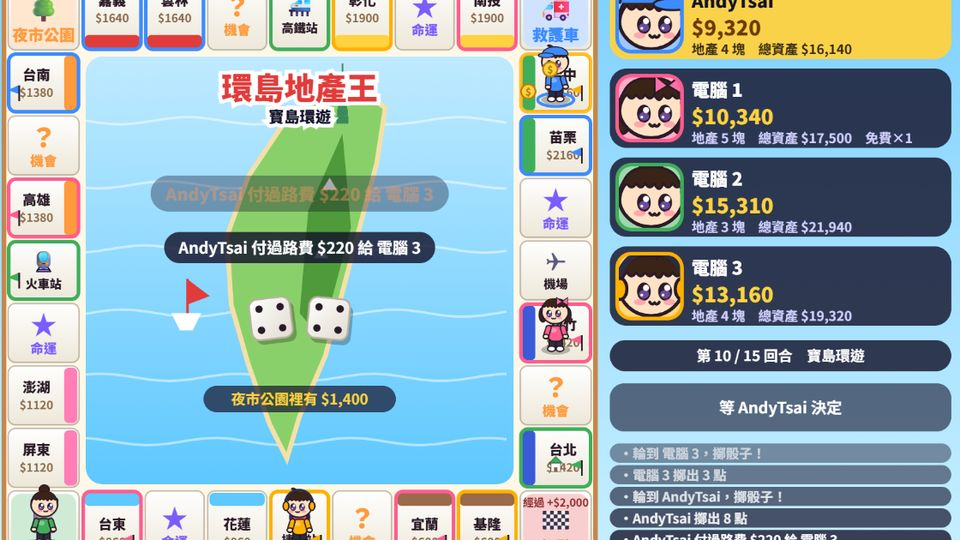
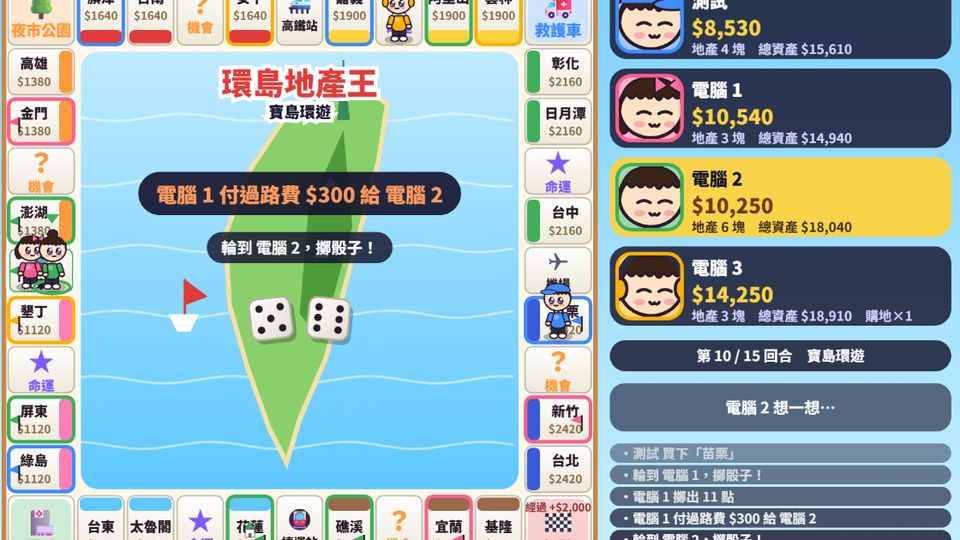
太空艦隊改單人闖關鎖關；環島地產王十張地圖、棋盤 40 格（v205）

diff --git a/rich.js b/rich.js
@@ -1,4 +1,4 @@
-// 環島地產王：擲骰子繞棋盤，買地、蓋房子、收過路費。三張地圖（寶島環遊、環遊世界、甜點樂園），
+// 環島地產王：擲骰子繞棋盤，買地、蓋房子、收過路費。十張地圖、棋盤 40 格，
 // 和電腦玩、同一台輪流玩，或開房間 2～4 人連線（房主負責運算、其他人送動作，人不夠電腦補）。
 (function(){
 'use strict';
@@ -12,27 +12,49 @@ const money=n=>(n<0?'-':'')+'$'+Math.abs(Math.round(n)).toString().replace(/\B(?
 const GCOL=['#9a6a4a','#5ec8ff','#ff7eb6','#ff9a3d','#e23b3b','#ffd23f','#3fae5a','#3a5ad8'];
 const MAPS=[
   {name:'寶島環遊',corner:['起點','醫院','夜市公園','救護車'],st:['捷運站','火車站','高鐵站','機場'],
-   props:['基隆','宜蘭','花蓮','台東','屏東','澎湖','高雄','台南','嘉義','雲林','彰化','南投','台中','苗栗','新竹','台北'],
+   props:['基隆','宜蘭','礁溪','花蓮','太魯閣','台東','綠島','屏東','墾丁','澎湖','金門','高雄','旗津','台南','安平','嘉義','阿里山','雲林','彰化','日月潭','台中','苗栗','新竹','台北'],
    bg:['#7ed0ff','#c8f0ff'],board:'#fff8e8',frame:'#c8864a',center:'taiwan'},
   {name:'環遊世界',corner:['起點','醫院','中央公園','救護車'],st:['港口','火車','郵輪','機場'],
-   props:['曼谷','河內','首爾','釜山','開羅','杜拜','雪梨','奧克蘭','羅馬','巴塞隆納','巴黎','倫敦','舊金山','紐約','新加坡','東京'],
+   props:['曼谷','河內','馬尼拉','首爾','釜山','開羅','杜拜','孟買','雪梨','奧克蘭','里約','羅馬','巴塞隆納','柏林','巴黎','倫敦','莫斯科','舊金山','紐約','多倫多','香港','新加坡','上海','東京'],
    bg:['#3a6ad8','#8ac8ff'],board:'#f4f8ff',frame:'#3a4a8a',center:'world'},
-  {name:'甜點樂園',corner:['起點','保健室','彩虹公園','救護車'],st:['小火車','熱氣球','旋轉木馬','雲霄飛車'],
-   props:['糖果屋','棉花糖','布丁','果凍','餅乾','馬卡龍','冰淇淋','聖代','甜甜圈','泡芙','巧克力','可可','蛋糕','千層','水晶糖宮','彩虹城'],
-   bg:['#ffb3d9','#fff0f8'],board:'#fffaf2',frame:'#e87aa8',center:'candy'}];
-const PAT=['p','p','x','s','p','y','p']; // 每邊 7 格：地、地、機會／命運、車站、地、命運／機會、地
+  {name:'甜點樂園',corner:['起點','保健室','彩虹公園','救護車'],st:['小火車','熱氣球','旋轉木馬','雲霄飛車'],em:['🚂','🎈','🎠','🎢'],
+   props:['糖果屋','棉花糖','軟糖','布丁','果凍','奶酪','餅乾','馬卡龍','蛋塔','冰淇淋','聖代','雪花冰','甜甜圈','泡芙','可麗餅','巧克力','可可','鬆餅','蛋糕','千層','提拉米蘇','水晶糖宮','彩虹城','蜜糖堡'],
+   bg:['#ffb3d9','#fff0f8'],board:'#fffaf2',frame:'#e87aa8',center:'candy'},
+  {name:'日本之旅',corner:['起點','診所','櫻花公園','救護車'],st:['電車','新幹線','渡輪','機場'],em:['🚃','🚄','⛴','✈'],
+   props:['那霸','石垣','鹿兒島','熊本','福岡','長崎','廣島','松山','高松','神戶','奈良','大阪','京都','名古屋','金澤','富士','鎌倉','橫濱','輕井澤','日光','東京','仙台','函館','札幌'],
+   bg:['#ffc4d6','#fff0e8'],board:'#fffaf4',frame:'#c8485a',center:'japan'},
+  {name:'歐洲古堡',corner:['起點','修道院','皇家花園','馬車'],st:['驛站','港口','運河','鐵路'],em:['🐎','⚓','🛶','🚂'],
+   props:['石橋村','磨坊鎮','葡萄園','牧羊谷','鐘樓城','市集廣場','鐵匠街','酒窖','騎士團','圖書塔','教堂','大學城','銀行街','歌劇院','美術館','北方要塞','湖畔堡','獵宮','夏宮','冬宮','公爵府','王后塔','國王廳','黃金城'],
+   bg:['#6a7ea8','#d8d8e8'],board:'#f8f4e8',frame:'#5a4a6a',center:'castle'},
+  {name:'海底世界',corner:['起點','珊瑚診所','珍珠花園','大白鯊'],st:['潛水艇','海龜','鯨魚','洋流'],em:['🚢','🐢','🐳','🌊'],
+   props:['海草坡','小丑魚礁','海星灘','寄居蟹','海馬林','水母灣','章魚洞','沉船','古董箱','魔鬼魚','藍洞','火山口','珊瑚城','貝殼街','珍珠坊','海豚灣','燈籠魚','深海溝','鯨歌谷','海神殿','美人魚宮','黃金艦','水晶城','龍宮'],
+   bg:['#0a4a8a','#3ac0d8'],board:'#eefafc',frame:'#0a5a7a',center:'sea'},
+  {name:'星際殖民',corner:['起點','醫療艙','星雲公園','救援艇'],st:['太空站','蟲洞','星際列車','火箭港'],em:['🛰','🌀','🚄','🚀'],
+   props:['月球站','月海','火衛基地','火星谷','奧林帕斯','礦業帶','穀神星','木衛城','大紅斑','木星環','冰衛星','土星環','泰坦','天王站','海王港','冥王哨','彗星','流星街','脈衝星','半人馬','獵戶座','天狼城','織女星','銀河中心'],
+   bg:['#0a0a2a','#3a2a6a'],board:'#f0f0fc',frame:'#3a3a7a',center:'space'},
+  {name:'恐龍時代',corner:['起點','草藥洞','蕨類花園','暴龍'],st:['翼龍','獨木舟','猛瑪象','火山道'],em:['🦅','🛶','🐘','🌋'],
+   props:['蕨類林','泥沼','化石坡','蛋窩','小盜龍','腕龍谷','長頸灘','三角龍','劍龍原','甲龍丘','迅猛崖','棘龍河','蛇頸湖','滄龍灣','翼手峰','蘇鐵林','琥珀坑','巨木森','恐龍骨','火山灰','熔岩池','雷龍城','暴龍王','遠古祭壇'],
+   bg:['#7a9a4a','#e8d890'],board:'#fbf6e0',frame:'#6a5a2a',center:'dino'},
+  {name:'冰雪王國',corner:['起點','暖爐屋','極光公園','雪怪'],st:['雪橇','破冰船','纜車','馴鹿'],em:['🛷','🚢','🚡','🦌'],
+   props:['雪屋村','企鵝灘','海豹岩','冰釣湖','北極狐','雪兔林','冰柱洞','松樹坡','滑雪場','雪人鎮','冰壺館','極光谷','馴鹿原','冰川','藍冰洞','白熊港','雪花街','聖誕村','冰晶塔','雪山峰','暴風嶺','冰之湖','水晶宮','冰雪王座'],
+   bg:['#8ac0e8','#f0f8ff'],board:'#f6fbff',frame:'#4a7aa8',center:'snow'},
+  {name:'法老沙漠',corner:['起點','神廟醫館','綠洲花園','沙暴'],st:['駱駝','尼羅船','商隊','飛毯'],em:['🐫','⛵','🧳','🪄'],
+   props:['沙丘村','椰棗林','水井','香料攤','陶器街','駱駝市','蘆葦河','莎草紙','石匠區','黃金礦','聖甲蟲','貓神廟','月神廟','獅身像','方尖碑','帝王谷','小金字塔','綠洲城','孟菲斯','尼羅河','太陽神殿','大金字塔','法老宮','黃金王座'],
+   bg:['#e8a84a','#fbe6b0'],board:'#fdf6e0',frame:'#a8742a',center:'desert'}];
+const PAT=['p','p','x','p','s','p','y','p','p']; // 每邊 9 格：地、地、機會／命運、地、車站、地、命運／機會、地、地
+const NT=40,SD=10; // 一圈 40 格，每邊 10 格（含轉角）
 function makeTiles(mi){ const M=MAPS[mi],T=[]; let pi=0,si=0;
-  for(let i=0;i<32;i++){ const side=Math.floor(i/8),k=i%8;
+  for(let i=0;i<NT;i++){ const side=Math.floor(i/SD),k=i%SD;
     if(k===0){ T.push({i,type:['start','hosp','park','amb'][side],name:M.corner[side]}); continue; }
     const p=PAT[k-1];
-    if(p==='p'){ const g=Math.floor(pi/2),price=600+g*260; T.push({i,type:'prop',name:M.props[pi],g,price,base:Math.round(price*.1/10)*10,cost:Math.round(price*.5/10)*10}); pi++; }
+    if(p==='p'){ const g=Math.floor(pi/3),price=600+g*260; T.push({i,type:'prop',name:M.props[pi],g,price,base:Math.round(price*.1/10)*10,cost:Math.round(price*.5/10)*10}); pi++; }
     else if(p==='s'){ T.push({i,type:'st',name:M.st[si++],price:1500}); }
     else T.push({i,type:(p==='x')===(side%2===0)?'chance':'fate',name:(p==='x')===(side%2===0)?'機會':'命運'}); }
   return T; }
 // 格子在棋盤上的位置：0 在右下角，往左、往上、往右、往下繞一圈
 const STEPT=.28; // 棋子走一格的時間
-const BS=488,BX=6,BY=6,CN=62,EG=(BS-CN*2)/7;
-function rect(i){ const side=Math.floor(i/8),k=i%8;
+const BS=488,BX=6,BY=6,CN=58,EG=(BS-CN*2)/(SD-1);
+function rect(i){ const side=Math.floor(i/SD),k=i%SD;
   if(k===0) return [[BS-CN,BS-CN],[0,BS-CN],[0,0],[BS-CN,0]][side].concat([CN,CN,side]);
   if(side===0) return [BS-CN-k*EG,BS-CN,EG,CN,0]; if(side===1) return [0,BS-CN-k*EG,CN,EG,1]; if(side===2) return [CN+(k-1)*EG,0,EG,CN,2]; return [BS-CN,CN+(k-1)*EG,CN,EG,3]; }
 const center=i=>{ const [x,y,w,h]=rect(i); return [BX+x+w/2,BY+y+h/2]; };
@@ -50,7 +72,7 @@ function chibi(c,x,y,s,p,o){ const RH=window.__RHY; if(!RH){ c.fillStyle=p.col; 
 
 /* ---------- 遊戲 ---------- */
 function create(env,opts){
-  const net=opts.net,client=!!net&&!net.host,OP=opts.options||{},mi=clamp(opts.stage|0,0,2),M=MAPS[mi],TI=makeTiles(mi);
+  const net=opts.net,client=!!net&&!net.host,OP=opts.options||{},mi=clamp(opts.stage|0,0,MAPS.length-1),M=MAPS[mi],TI=makeTiles(mi);
   const hot=!net&&opts.mode==='local',seats=net?clamp(net.count+(net.bots||0),2,4):clamp(+OP.seats||4,2,4);
   const humans=net?net.count:hot?seats:1,me=net?net.me:0,ROUNDS=+OP.rounds||15,START=+OP.cash||15000,PACE=({slow:2,normal:1.5,fast:1})[OP.pace||'normal']||1.5; // 動作之間停多久
   const isAI=p=>p>=humans||left.has(p),left=new Set(),sfx=n=>env.sfx(n);
@@ -84,7 +106,7 @@ function create(env,opts){
     G.phase='roll'; log('輪到 '+names[G.turn]+'，擲骰子！'); }
   function roll(p){ if(G.phase!=='roll'||G.turn!==p) return '還沒輪到你'; const a=1+Math.floor(Math.random()*6),b=1+Math.floor(Math.random()*6); G.dice=[a,b]; G.ds++; sfx('rattle'); move(p,a+b,.9); log(names[p]+' 擲出 '+(a+b)+' 點'); return null; }
   function move(p,steps,delay){ const pl=G.pl[p],path=[]; let pos=pl.pos,passed=false;
-    for(let k=0;k<Math.abs(steps);k++){ pos=(pos+(steps>0?1:31))%32; path.push(pos); if(pos===0&&steps>0) passed=true; }
+    for(let k=0;k<Math.abs(steps);k++){ pos=(pos+(steps>0?1:NT-1))%NT; path.push(pos); if(pos===0&&steps>0) passed=true; }
     G.ms++; G.mv={p,from:pl.pos,path,s:G.ms,delay}; pl.pos=pos; if(passed){ G.pl[p].cash+=2000; G.passBonus=p; }
     G.phase='wait'; G.wait=delay+path.length*STEPT+.3*PACE; G.after='land'; }
   function warp(p,to){ G.ms++; G.mv={p,from:G.pl[p].pos,path:[to],s:G.ms,delay:0,warp:1}; G.pl[p].pos=to; G.phase='wait'; G.wait=1.1; G.after='land'; }
@@ -107,11 +129,11 @@ function create(env,opts){
   function applyCard(){ const p=G.turn,pl=G.pl[p],e=G.cardFx||{}; G.card=null;
     if(e.card){ pl.cards[e.card]++; toast(names[p]+' 拿到'+(e.card==='buy'?'購地卡':'換地卡')+'！','#ffd23f'); sfx('item'); return endSoon(1); }
     if(e.gain){ gain(p,e.gain); return endSoon(1); }
-    if(e.goto!=null){ return move(p,(32-pl.pos)%32||32,0); }
+    if(e.goto!=null){ return move(p,(NT-pl.pos)%NT||NT,0); }
     if(e.fwd){ return move(p,e.fwd,0); }
     if(e.up){ const mine=owned(p).filter(i=>TI[i].type==='prop'&&G.tiles[i].lv<3); if(mine.length){ const i=mine[0]; G.tiles[i].lv++; toast('「'+TI[i].name+'」免費加蓋！'); sfx('item'); } else toast('沒有可以加蓋的地'); return endSoon(1); }
     if(e.each){ for(const q of alive()) if(q!==p) pay(q,p,Math.min(e.each,Math.max(0,G.pl[q].cash))); return endSoon(1.2); }
-    if(e.station){ let k=1; while(TI[(pl.pos+k)%32].type!=='st') k++; return move(p,k,0); }
+    if(e.station){ let k=1; while(TI[(pl.pos+k)%NT].type!=='st') k++; return move(p,k,0); }
     if(e.free){ pl.free++; return endSoon(1); }
     if(e.tax){ pay(p,-2,e.tax*owned(p).length); return endSoon(1); }
     if(e.fine){ pay(p,-2,e.fine); return endSoon(1); }
@@ -283,12 +305,22 @@ function drawBoard(c,mi,t){ const M=MAPS[mi],TI=makeTiles(mi);
     c.textAlign='center'; c.textBaseline='middle';
     if(T.type==='prop'){ const col=GCOL[T.g]; c.fillStyle=col; // 內側的顏色帶
       if(side===0) rr(c,X+3,Y+3,w-6,11,4); else if(side===2) rr(c,X+3,Y+h-14,w-6,11,4); else if(side===1) rr(c,X+w-14,Y+3,11,h-6,4); else rr(c,X+3,Y+3,11,h-6,4); c.fill();
-      const tx=X+w/2+(side===1?-6:side===3?6:0),ty=Y+h/2+(side===0?5:side===2?-5:0); c.fillStyle='#2a1a26'; c.font='900 '+(T.name.length>3?9.5:11.5)+'px '+TC; c.fillText(T.name,tx,ty-7,w-16); c.fillStyle='#8a6a4a'; c.font='700 9.5px '+TC; c.fillText('$'+T.price,tx,ty+8); }
-    else if(T.type==='st'){ c.fillStyle='#5a5a7a'; c.font='18px '+TC; c.fillText(['🚇','🚆','🚄','✈'][Math.floor(T.i/8)],X+w/2,Y+h/2-8); c.fillStyle='#2a1a26'; c.font='900 10px '+TC; c.fillText(T.name,X+w/2,Y+h/2+11,w-6); }
+      const tx=X+w/2+(side===1?-6:side===3?6:0),ty=Y+h/2+(side===0?5:side===2?-5:0); c.fillStyle='#2a1a26'; c.font='900 '+(T.name.length>3?9.5:11.5)+'px '+TC; c.fillText(T.name,tx,ty-7,side%2?w-16:w-5); c.fillStyle='#8a6a4a'; c.font='700 9.5px '+TC; c.fillText('$'+T.price,tx,ty+8); }
+    else if(T.type==='st'){ c.fillStyle='#5a5a7a'; c.font='18px '+TC; c.fillText((M.em||['🚇','🚆','🚄','✈'])[Math.floor(T.i/SD)],X+w/2,Y+h/2-8); c.fillStyle='#2a1a26'; c.font='900 10px '+TC; c.fillText(T.name,X+w/2,Y+h/2+11,w-4); }
     else if(T.type==='chance'||T.type==='fate'){ const k=T.type==='chance'; c.fillStyle=k?'#ff9a3d':'#7a5cff'; c.font='900 22px '+TC; c.fillText(k?'？':'★',X+w/2,Y+h/2-7); c.font='900 11px '+TC; c.fillText(T.name,X+w/2,Y+h/2+13); }
     else { const col={start:'#e23b3b',hosp:'#3fae5a',park:'#ff9a3d',amb:'#3d8bff'}[T.type]; c.fillStyle=shade(col,1.75); rr(c,X+4,Y+4,w-8,h-8,8); c.fill();
       c.fillStyle=col; c.font='900 13px '+TC; c.fillText(T.name,X+w/2,Y+h-14,w-8); c.font='22px '+TC; c.fillText({start:'🏁',hosp:'🏥',park:'🌳',amb:'🚑'}[T.type],X+w/2,Y+h/2-6);
       if(T.type==='start'){ c.font='700 9px '+TC; c.fillStyle='#8a2a2a'; c.fillText('經過 +$2,000',X+w/2,Y+11); } } } }
+const tri=(c,a,b,d,e,f,g)=>{ c.beginPath(); c.moveTo(a,b); c.lineTo(d,e); c.lineTo(f,g); c.fill(); },circ=(c,a,b,r)=>{ c.beginPath(); c.arc(a,b,r,0,7); c.fill(); };
+const ARTS={
+  japan:{sky:['#ffd9e4','#fff4e0'],f(c,x,y,s,cx,cy,t){ c.fillStyle='#e8344a'; circ(c,cx+s*.22,y+s*.34,s*.1); c.fillStyle='#5a7aa8'; tri(c,x-s*.05,y+s*.82,cx,y+s*.3,x+s*1.05,y+s*.82); c.fillStyle='#fff'; c.beginPath(); c.moveTo(cx-s*.13,y+s*.46); c.lineTo(cx,y+s*.3); c.lineTo(cx+s*.13,y+s*.46); c.lineTo(cx+s*.06,y+s*.43); c.lineTo(cx,y+s*.48); c.lineTo(cx-s*.06,y+s*.43); c.fill(); c.fillStyle='#8ac86a'; c.fillRect(x,y+s*.8,s,s*.2);
+    c.fillStyle='#d8343a'; c.fillRect(x+s*.14,y+s*.62,6,s*.24); c.fillRect(x+s*.3,y+s*.62,6,s*.24); c.fillRect(x+s*.1,y+s*.6,s*.26,6); c.fillRect(x+s*.13,y+s*.67,s*.2,4); c.fillStyle='#ffb0c8'; for(let k=0;k<26;k++){ const q=(k*37)%100/100; circ(c,x+q*s+Math.sin(t+k)*5,y+((k*53+t*16)%100)/100*s,2.6); } }},
+  castle:{sky:['#7a8ec0','#e8e0e8'],f(c,x,y,s,cx,cy,t){ c.fillStyle='#fff'; for(const [a,b] of [[.2,.34],[.78,.4]]){ circ(c,x+a*s,y+b*s,12); circ(c,x+a*s+14,y+b*s+2,10); circ(c,x+a*s-14,y+b*s+3,9); } c.fillStyle='#6a9a5a'; c.beginPath(); c.ellipse(cx,y+s*1.02,s*.75,s*.3,0,0,7); c.fill(); c.fillStyle='#b8b4c0'; c.fillRect(cx-s*.26,cy,s*.52,s*.32); for(let k=0;k<7;k++) c.fillRect(cx-s*.26+k*s*.08,cy-8,s*.04,8); for(const k of [-1,1]){ c.fillStyle='#a4a0ae'; c.fillRect(cx+k*s*.28-s*.07,cy-s*.12,s*.14,s*.44); c.fillStyle='#4a5a98'; tri(c,cx+k*s*.28-s*.09,cy-s*.12,cx+k*s*.28,cy-s*.3,cx+k*s*.28+s*.09,cy-s*.12); } c.fillStyle='#5a4a3a'; rr(c,cx-s*.06,cy+s*.14,s*.12,s*.18,s*.05); c.fill(); c.fillStyle='#e23b3b'; c.fillRect(cx+s*.28,cy-s*.38,2,s*.1); tri(c,cx+s*.285,cy-s*.38,cx+s*.285+16+Math.sin(t*3)*2,cy-s*.35,cx+s*.285,cy-s*.32); }},
+  sea:{sky:['#3ac0d8','#0a4a8a'],f(c,x,y,s,cx,cy,t){ c.fillStyle='#e8d8a0'; c.beginPath(); c.ellipse(cx,y+s*1.02,s*.8,s*.2,0,0,7); c.fill(); for(const [a,co] of [[.14,'#ff7a8a'],[.26,'#ffb04a'],[.82,'#c87aff'],[.92,'#ff7a8a']]){ c.strokeStyle=co; c.lineWidth=6; c.lineCap='round'; for(const d of [-1,0,1]){ c.beginPath(); c.moveTo(x+a*s,y+s*.92); c.lineTo(x+a*s+d*10,y+s*.74); c.stroke(); } } c.lineCap='butt'; for(const [a,b,co,z] of [[.3,.55,'#ff9a3d',1],[.68,.68,'#ffd23f',.8],[.6,.42,'#7ad8ff',.7]]){ const q=x+a*s+Math.sin(t*.8+a*9)*14; c.fillStyle=co; c.beginPath(); c.ellipse(q,y+b*s,18*z,10*z,0,0,7); c.fill(); tri(c,q-16*z,y+b*s,q-30*z,y+b*s-9*z,q-30*z,y+b*s+9*z); c.fillStyle='#14122b'; circ(c,q+9*z,y+b*s-2,2); } c.fillStyle='rgba(255,255,255,.6)'; for(let k=0;k<12;k++) circ(c,x+(k*23%100)/100*s,y+s-((k*41+t*18)%100)/100*s,2+k%3); }},
+  space:{sky:['#05061e','#2a1a5a'],f(c,x,y,s,cx,cy,t){ c.fillStyle='#fff'; for(let k=0;k<50;k++) c.fillRect(x+(k*73%100)/100*s,y+(k*41%100)/100*s,1.6,1.6); c.fillStyle='#ffb04a'; circ(c,x+s*.74,y+s*.42,s*.13); c.strokeStyle='#ffe0a0'; c.lineWidth=3; c.beginPath(); c.ellipse(x+s*.74,y+s*.42,s*.21,s*.05,-.3,0,7); c.stroke(); c.fillStyle='#b8b8c8'; c.beginPath(); c.ellipse(cx,y+s*1.04,s*.7,s*.26,0,0,7); c.fill(); c.fillStyle='#9090a4'; circ(c,cx-s*.24,y+s*.88,8); circ(c,cx+s*.2,y+s*.92,6); c.fillStyle='rgba(180,230,255,.75)'; c.beginPath(); c.arc(cx-s*.05,y+s*.82,s*.11,Math.PI,0); c.fill(); const rx=x+s*.26,ry=y+s*.55+Math.sin(t)*6; c.fillStyle='#e8ecf4'; rr(c,rx-8,ry-22,16,40,8); c.fill(); c.fillStyle='#e23b3b'; tri(c,rx-8,ry-14,rx,ry-34,rx+8,ry-14); tri(c,rx-8,ry+8,rx-17,ry+20,rx-8,ry+18); tri(c,rx+8,ry+8,rx+17,ry+20,rx+8,ry+18); c.fillStyle='#ffb02a'; tri(c,rx-5,ry+18,rx,ry+32+Math.sin(t*20)*4,rx+5,ry+18); c.fillStyle='#3d8bff'; circ(c,rx,ry-6,4); }},
+  dino:{sky:['#f8c070','#fbe8b0'],f(c,x,y,s,cx,cy,t){ c.fillStyle='#6a5048'; tri(c,x+s*.42,y+s*.82,x+s*.72,y+s*.3,x+s*1.02,y+s*.82); c.fillStyle='#ff5a2a'; tri(c,x+s*.67,y+s*.39,x+s*.72,y+s*.3,x+s*.77,y+s*.39); c.fillStyle='rgba(70,60,60,.5)'; for(let k=0;k<4;k++) circ(c,x+s*.72+Math.sin(t+k)*8,y+s*.26-((k*9+t*6)%40),8+k*2); c.fillStyle='#7aa84a'; c.fillRect(x,y+s*.8,s,s*.2); const q=x+s*.3,w=y+s*.74; c.fillStyle='#4f9a5a'; c.beginPath(); c.ellipse(q,w,s*.16,s*.08,0,0,7); c.fill(); tri(c,q-s*.13,w,q-s*.34,w+6,q-s*.1,w+s*.05); c.strokeStyle='#4f9a5a'; c.lineWidth=11; c.lineCap='round'; c.beginPath(); c.moveTo(q+s*.1,w-4); c.quadraticCurveTo(q+s*.18,w-s*.2,q+s*.13,w-s*.3); c.stroke(); c.lineCap='butt'; c.fillStyle='#4f9a5a'; c.fillRect(q-s*.09,w,9,s*.1); c.fillRect(q+s*.05,w,9,s*.1); c.fillStyle='#14122b'; circ(c,q+s*.14,w-s*.31,2); c.fillStyle='#3a7a3a'; for(const a of [.06,.9]) for(let k=-2;k<=2;k++){ c.save(); c.translate(x+a*s,y+s*.82); c.rotate(k*.55); c.beginPath(); c.ellipse(0,-s*.1,5,s*.1,0,0,7); c.fill(); c.restore(); } }},
+  snow:{sky:['#a8d4f0','#f0f8ff'],f(c,x,y,s,cx,cy,t){ c.fillStyle='rgba(120,255,190,.32)'; c.beginPath(); c.moveTo(x,y+s*.36); for(let q=0;q<=s;q+=12) c.lineTo(x+q,y+s*.36+Math.sin(q/30+t)*12); c.lineTo(x+s,y+s*.56); c.lineTo(x,y+s*.56); c.fill(); c.fillStyle='#b8d0e4'; tri(c,x-s*.08,y+s*.82,x+s*.28,y+s*.42,x+s*.62,y+s*.82); tri(c,x+s*.4,y+s*.82,x+s*.75,y+s*.36,x+s*1.1,y+s*.82); c.fillStyle='#fff'; tri(c,x+s*.2,y+s*.51,x+s*.28,y+s*.42,x+s*.36,y+s*.51); tri(c,x+s*.67,y+s*.46,x+s*.75,y+s*.36,x+s*.83,y+s*.46); c.fillRect(x,y+s*.8,s,s*.2); const q=cx,w=y+s*.78; c.fillStyle='#22283a'; c.beginPath(); c.ellipse(q,w,14,20,0,0,7); c.fill(); c.fillStyle='#fff'; c.beginPath(); c.ellipse(q,w+3,9,14,0,0,7); c.fill(); c.fillStyle='#22283a'; circ(c,q,w-20,10); c.fillStyle='#fff'; circ(c,q-4,w-21,2.6); circ(c,q+4,w-21,2.6); c.fillStyle='#ff9a3d'; tri(c,q-4,w-17,q,w-12,q+4,w-17); c.fillStyle='#fff'; for(let k=0;k<26;k++) circ(c,x+(k*37%100)/100*s,y+((k*59+t*14)%100)/100*s,1.8); }},
+  desert:{sky:['#f8c868','#fdeec0'],f(c,x,y,s,cx,cy,t){ c.fillStyle='#fff4c0'; circ(c,x+s*.8,y+s*.36,s*.08); const py=(a,z,co)=>{ c.fillStyle=co; tri(c,x+a*s-z,y+s*.82,x+a*s,y+s*.82-z*.95,x+a*s+z,y+s*.82); c.fillStyle='rgba(0,0,0,.14)'; tri(c,x+a*s,y+s*.82-z*.95,x+a*s+z,y+s*.82,x+a*s+z*.2,y+s*.82); }; py(.68,s*.2,'#d8a860'); py(.36,s*.32,'#e8bc70'); py(.12,s*.13,'#d09c58'); c.fillStyle='#e0b060'; c.beginPath(); c.moveTo(x,y+s*.82); c.quadraticCurveTo(cx,y+s*.74,x+s,y+s*.84); c.lineTo(x+s,y+s); c.lineTo(x,y+s); c.fill(); const q=x+s*.72,w=y+s*.84; c.fillStyle='#a8743a'; c.beginPath(); c.ellipse(q,w,18,9,0,0,7); c.fill(); circ(c,q,w-9,7); c.fillRect(q-14,w,4,14); c.fillRect(q+10,w,4,14); c.strokeStyle='#a8743a'; c.lineWidth=5; c.beginPath(); c.moveTo(q+15,w-2); c.lineTo(q+24,w-14); c.stroke(); circ(c,q+26,w-17,5); }}};
 function centerArt(c,mi,x,y,s,t){ const cx=x+s/2,cy=y+s/2; c.save(); rr(c,x,y,s,s,14); c.clip();
   if(mi===0){ const g=c.createLinearGradient(x,y,x,y+s); g.addColorStop(0,'#bfeaff'); g.addColorStop(1,'#5ec8ff'); c.fillStyle=g; c.fillRect(x,y,s,s);
     c.strokeStyle='rgba(255,255,255,.5)'; c.lineWidth=2; for(let k=0;k<6;k++){ c.beginPath(); for(let q=0;q<=s;q+=10) c.lineTo(x+q,y+s*.15+k*s*.15+Math.sin(q/18+k)*3); c.stroke(); }
@@ -305,6 +337,7 @@ function centerArt(c,mi,x,y,s,t){ const cx=x+s/2,cy=y+s/2; c.save(); rr(c,x,y,s,
     c.strokeStyle='rgba(255,255,255,.4)'; c.lineWidth=1.5; c.beginPath(); c.ellipse(cx,cy,R,R*.35,0,0,7); c.stroke(); c.beginPath(); c.ellipse(cx,cy,R*.35,R,0,0,7); c.stroke();
     const a=t*.6,px=cx+Math.cos(a)*R*1.25,py=cy+Math.sin(a)*R*.5; c.fillStyle='#fff'; c.save(); c.translate(px,py); c.rotate(a+Math.PI/2); c.beginPath(); c.ellipse(0,0,10,3,0,0,7); c.fill(); c.fillRect(-2,-10,4,20); c.restore();
     c.fillStyle='#ffd23f'; c.beginPath(); c.moveTo(x+s*.12,y+s*.86); c.lineTo(x+s*.18,y+s*.6); c.lineTo(x+s*.24,y+s*.86); c.fill(); c.fillStyle='#e8c070'; c.beginPath(); c.moveTo(x+s*.75,y+s*.88); c.lineTo(x+s*.85,y+s*.7); c.lineTo(x+s*.95,y+s*.88); c.fill(); }
+  else if(ARTS[MAPS[mi].center]){ const A=ARTS[MAPS[mi].center],g=c.createLinearGradient(x,y,x,y+s); g.addColorStop(0,A.sky[0]); g.addColorStop(1,A.sky[1]); c.fillStyle=g; c.fillRect(x,y,s,s); A.f(c,x,y,s,cx,cy,t); }
   else { const g=c.createLinearGradient(x,y,x,y+s); g.addColorStop(0,'#ffd6ec'); g.addColorStop(1,'#ffeef8'); c.fillStyle=g; c.fillRect(x,y,s,s);
     const cols=['#ff5d5d','#ffb000','#ffe14d','#5fd068','#4fb8ff','#b77bff']; cols.forEach((col,k)=>{ c.strokeStyle=col; c.lineWidth=7; c.beginPath(); c.arc(cx,y+s*.78,s*.42-k*7,Math.PI,0); c.stroke(); });
     c.fillStyle='#fff0f6'; rr(c,cx-40,cy-10,80,60,6); c.fill(); for(const k of [-1,1]){ c.fillStyle='#ffe0ee'; c.fillRect(cx+k*40-12,cy-30,24,80); c.fillStyle='#ff7eb6'; c.beginPath(); c.moveTo(cx+k*40-16,cy-30); c.lineTo(cx+k*40,cy-56); c.lineTo(cx+k*40+16,cy-30); c.fill(); }
@@ -316,16 +349,16 @@ function centerArt(c,mi,x,y,s,t){ const cx=x+s/2,cy=y+s/2; c.save(); rr(c,x,y,s,
   c.font='900 13px '+TC; c.fillStyle='#14122b'; c.strokeText(MAPS[mi].name,cx,y+50); c.fillText(MAPS[mi].name,cx,y+50); }
 
 function stageShow(ctx,w,h,si,t){ const k=Math.min(w/W,h/H); ctx.fillStyle='#14122b'; ctx.fillRect(0,0,w,h); ctx.save(); ctx.translate((w-BS*k*1.0)/2-BX*k,0); ctx.scale(k*1,k*1); const g=ctx.createLinearGradient(0,0,0,H); g.addColorStop(0,MAPS[si].bg[0]); g.addColorStop(1,MAPS[si].bg[1]); ctx.fillStyle=g; ctx.fillRect(-200,0,W+400,H);
-  drawBoard(ctx,si,t); const RH=window.__RHY; if(RH){ for(let p=0;p<4;p++){ const i=(Math.floor(t*2)+p*5)%32,[x,y]=center(i); RH.drawChibi(ctx,x,y+12,1.05,{t,body:PCOL[p],pants:'#2b2b44',shoe:'#fff',hairStyle:CHARS[p].hair,acc:CHARS[p].acc,capCol:PCOL[p],bob:Math.abs(Math.sin(t*4+p))*2}); } } ctx.restore(); }
-function thumb(ctx,w,h,t){ stageShow(ctx,w,h,Math.floor(t/4)%3,t); ctx.textAlign='center'; ctx.textBaseline='middle'; ctx.font='900 '+Math.round(h*.12)+'px '+TC; ctx.lineWidth=7; ctx.strokeStyle='#14122b'; ctx.strokeText('環島地產王',w/2,h*.88); ctx.fillStyle='#ffd23f'; ctx.fillText('環島地產王',w/2,h*.88); }
+  drawBoard(ctx,si,t); const RH=window.__RHY; if(RH){ for(let p=0;p<4;p++){ const i=(Math.floor(t*2)+p*7)%NT,[x,y]=center(i); RH.drawChibi(ctx,x,y+12,1.05,{t,body:PCOL[p],pants:'#2b2b44',shoe:'#fff',hairStyle:CHARS[p].hair,acc:CHARS[p].acc,capCol:PCOL[p],bob:Math.abs(Math.sin(t*4+p))*2}); } } ctx.restore(); }
+function thumb(ctx,w,h,t){ stageShow(ctx,w,h,Math.floor(t/4)%MAPS.length,t); ctx.textAlign='center'; ctx.textBaseline='middle'; ctx.font='900 '+Math.round(h*.12)+'px '+TC; ctx.lineWidth=7; ctx.strokeStyle='#14122b'; ctx.strokeText('環島地產王',w/2,h*.88); ctx.fillStyle='#ffd23f'; ctx.fillText('環島地產王',w/2,h*.88); }
 function preview(ctx,w,h,L,t){ const g=ctx.createLinearGradient(0,0,0,h); g.addColorStop(0,'#7ed0ff'); g.addColorStop(1,'#c8f0ff'); ctx.fillStyle=g; ctx.fillRect(0,0,w,h);
   const RH=window.__RHY; if(RH) RH.drawChibi(ctx,w/2,h*.9,h/60,{t,body:L.color||PCOL[0],pants:'#2b2b44',shoe:'#fff',hairStyle:L.hair||'boy',acc:L.acc||'cap',capCol:L.color||PCOL[0],bob:Math.abs(Math.sin(t*3))*2,armL:.3+Math.sin(t*4)*.4,armR:.3}); }
 
 (window.ARCADE_GAMES=window.ARCADE_GAMES||{}).rich={
   name:'環島地產王',tag:'PROPERTY KING',color:'#e23b3b',online:true,maxPlayers:4,bots:true,minPlayers:2,
-  desc:'擲骰子繞著寶島、世界或甜點樂園跑，買地蓋房子收過路費！和電腦玩、同一台輪流玩，或開房間 2～4 人連線。',
+  desc:'擲骰子繞著 40 格棋盤跑，十張地圖從寶島、海底到外太空，買地蓋房子收過路費！和電腦玩、同一台輪流玩，或開房間 2～4 人連線。',
   goal:'擲骰子前進，買地、蓋房子，別人停到你的地要付過路費。打完回合數時總資產最多的人贏（或其他人都破產）。',
-  stageGoal:si=>'地圖「'+MAPS[si].name+'」：停到空地可以買，機會、命運可能抽到購地卡（停到別人的地時付原價強制買下）和換地卡（停在自己的地上時跟別人的地互換），再停到自己的地可以加蓋（最多三層大樓），同色兩塊都買下過路費加倍。經過起點拿 $2,000；機會、命運卡有好有壞；停到救護車會被送去'+MAPS[si].corner[1]+'休息一回合；罰款會放進'+MAPS[si].corner[2]+'，誰停到就全部拿走。錢不夠會自動賣房賣地，還是不夠就破產。',
+  stageGoal:si=>'地圖「'+MAPS[si].name+'」：停到空地可以買，機會、命運可能抽到購地卡（停到別人的地時付原價強制買下）和換地卡（停在自己的地上時跟別人的地互換），再停到自己的地可以加蓋（最多三層大樓），同色三塊都買下過路費加倍。經過起點拿 $2,000；機會、命運卡有好有壞；停到救護車會被送去'+MAPS[si].corner[1]+'休息一回合；罰款會放進'+MAPS[si].corner[2]+'，誰停到就全部拿走。錢不夠會自動賣房賣地，還是不夠就破產。',
   stages:MAPS.map(m=>m.name),stageLabel:'選擇地圖',
   modes:[{id:'1p',label:'和電腦玩'},{id:'local',label:'同一台輪流玩'}],
   options:[{key:'seats',label:'人數',def:'4',opts:[{id:'2',label:'2 人'},{id:'3',label:'3 人'},{id:'4',label:'4 人'}]},

diff --git a/space.js b/space.js
@@ -1,4 +1,4 @@
-// 太空艦隊：縱向捲軸射擊。自動開火，只要移動和放炸彈；50 個星域，每關最後打王。單人、同機雙人合作、連線 2～4 人合作（房主運算）。
+// 太空艦隊：縱向捲軸射擊。自動開火，只要移動和放炸彈；50 個星域，每關最後打王。單人闖關，過一關開下一關。
 (function(){
 'use strict';
 const W=800,H=500,TC='"Noto Sans TC","Microsoft JhengHei",sans-serif',PIX='"Press Start 2P","Noto Sans TC",monospace';
@@ -229,13 +229,13 @@ function stageShow(ctx,w,h,si,t){ ctx.save(); ctx.scale(w/W,h/H); drawBg(ctx,si,
 function thumb(ctx,w,h,t){ stageShow(ctx,w,h,16,t); }
 function preview(ctx,w,h,L,t){ L=L||{}; ctx.save(); ctx.scale(w/W,h/H); drawBg(ctx,0,t); put(ctx,shipSpr(L.color||'#3ddbd9',L.ship||'0'),W/2,H/2,0,3); ctx.restore(); }
 (window.ARCADE_GAMES=window.ARCADE_GAMES||{}).space={
-  name:'太空艦隊',tag:'STAR FLEET',color:'#6fb4ff',online:true,maxPlayers:4,
-  desc:'縱向捲軸射擊：戰機會自動開火，你只要閃子彈、撿武器，每個星域的最後打巨大的王。可以雙人或連線一起打。',
+  name:'太空艦隊',tag:'STAR FLEET',color:'#6fb4ff',
+  desc:'縱向捲軸射擊：戰機會自動開火，你只要閃子彈、撿武器，每個星域的最後打巨大的王。共 50 關，過一關開下一關。',
   goal:'躲開子彈撐到王出現，打倒王就過關。撿「武」升級武器、「盾」擋一次、「爆」多一顆炸彈。',
   stages:STAGES.map(s=>s.name),stars:STAGES.map(s=>s.stars),stageShow,stageGoal:si=>STAGES[si].name+'：撐過敵機，打倒最後的王。白點是你的中彈位置，只有那裡被打到才算。',
   stageBest:i=>{ try{ const v=localStorage.getItem('arcade.space.w.'+STAGES[i].rec); return v?'最高 '+v:''; }catch(e){ return ''; } },
-  modes:[{id:'1p',label:'單人'},{id:'2p',label:'雙人',kb:true}],
-  help:[['↑ ↓ ← →','移動（自動開火，也可以用滑鼠拖）'],['J 或 空白鍵','放炸彈：清光子彈'],['雙人','2P：WASD 移動、F 炸彈']],
+  stageLocked:i=>{ if(i===0) return false; for(let k=i-1;k<STAGES.length;k++){ try{ if(localStorage.getItem('arcade.space.w.'+STAGES[k].rec)) return false; }catch(e){ return false; } } return true; }, // 過了前一關才解鎖；打過後面關卡的舊紀錄照算
+  help:[['↑ ↓ ← →','移動（自動開火，也可以用滑鼠拖）'],['J 或 空白鍵','放炸彈：清光子彈']],
   touchHelp:[['手指拖曳','移動戰機（自動開火）'],['炸彈','清光畫面上的子彈']],
   touch:{left:'dpad',right:[{l:'炸彈',c:'KeyJ',act:true}]},
   best:{label:'最高分',fmt:v=>v+' 分',lower:false},

diff --git a/index.html b/index.html
@@ -245,7 +245,7 @@ body.padswap #pad{flex-direction:row-reverse} /* 方向鍵放右邊 */
 <div id="modal" hidden><div class="card" id="mcard"></div></div>
 
 <script>
-window.ARCADE_V=204; // 每次改版加一
+window.ARCADE_V=205; // 每次改版加一
 (function(){ var q=/github\.io$/.test(location.hostname)?'?v='+window.ARCADE_V:'';
   document.write(['stairs','kart','bomb','volley','dodge','soccer','bowl3d','bowl','baseball3d','baseball','purple','rummy','mahjong','meow','poker','dice','deliver3d','deliver','chess','qi','racer','brawl','bball3d','bball','h3d','golf3d','golf','pool3d','pool','blocks','drum','dance','tower','jelly','rich','space','royale','draw','wolf','passbomb'].map(function(n){ return '<script src="'+n+'.js'+q+'"><\/script>'; }).join('')); })();
 </script>
